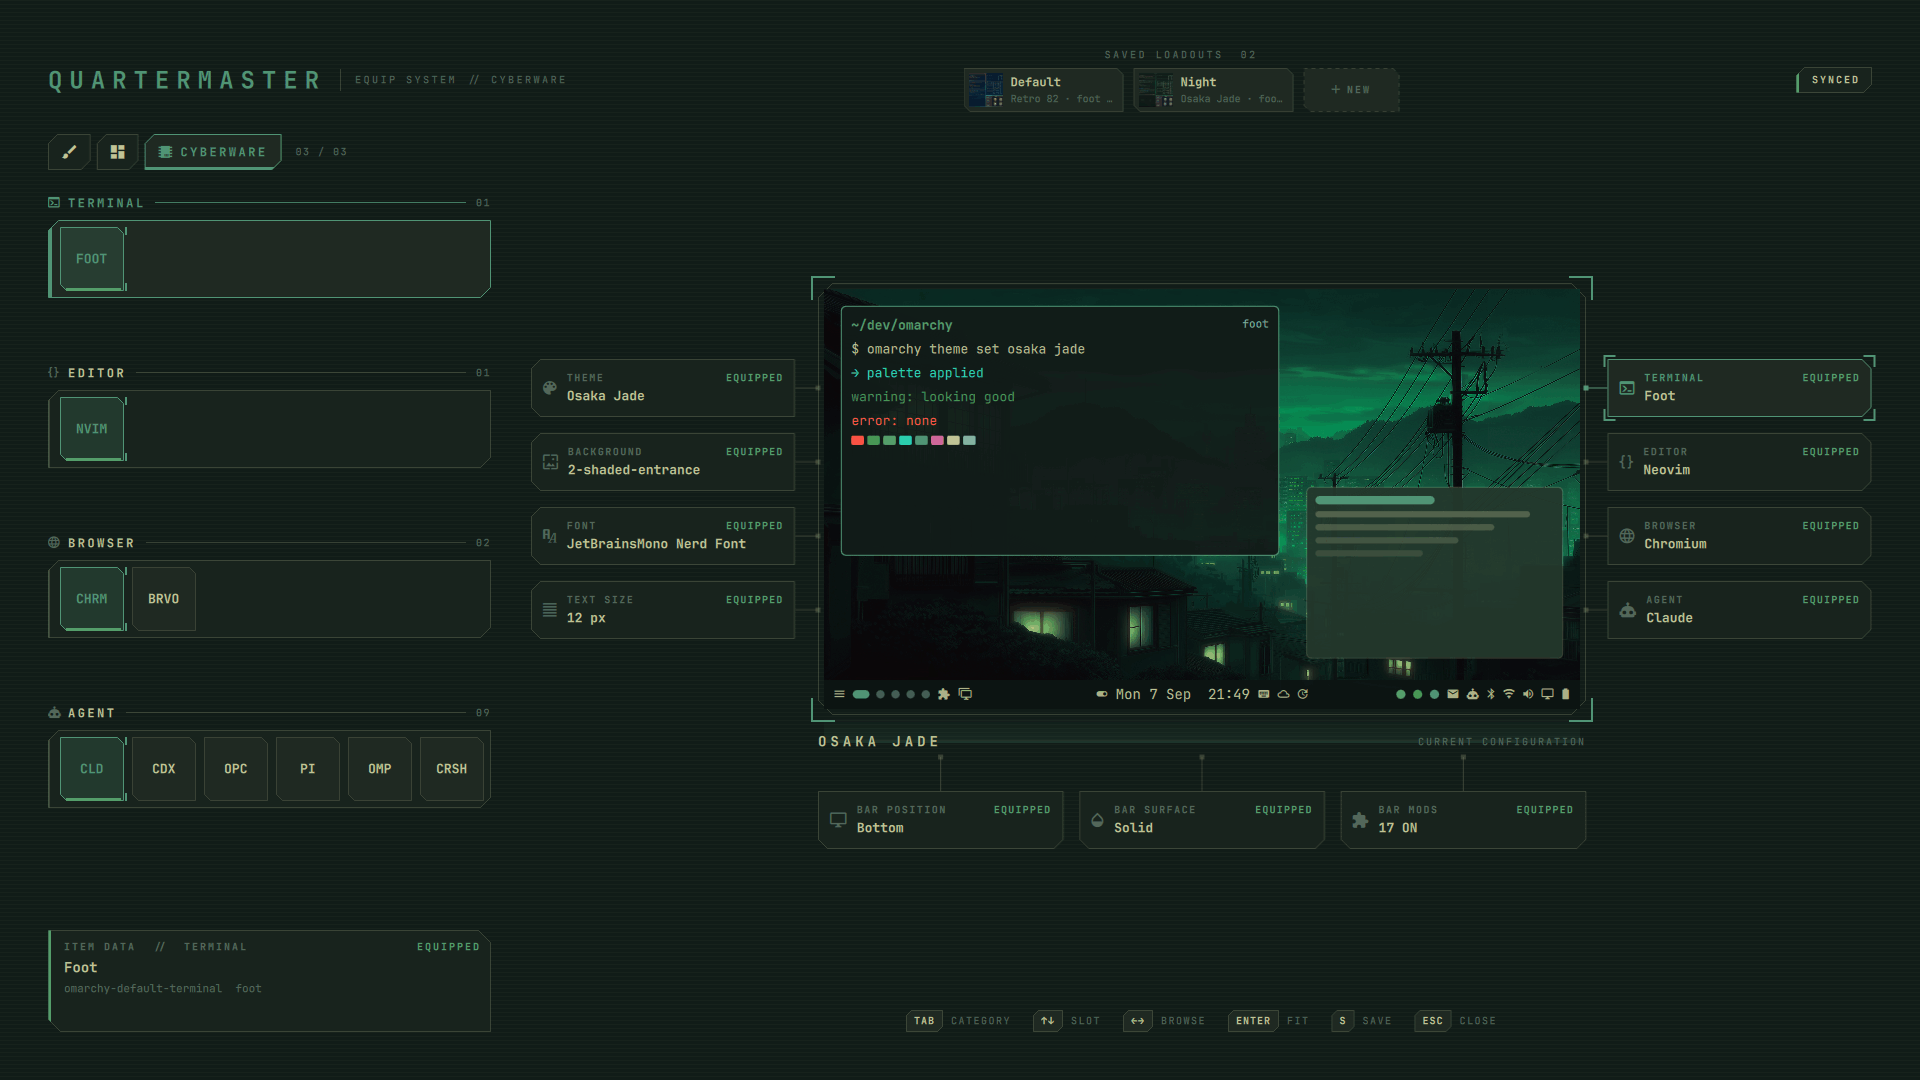
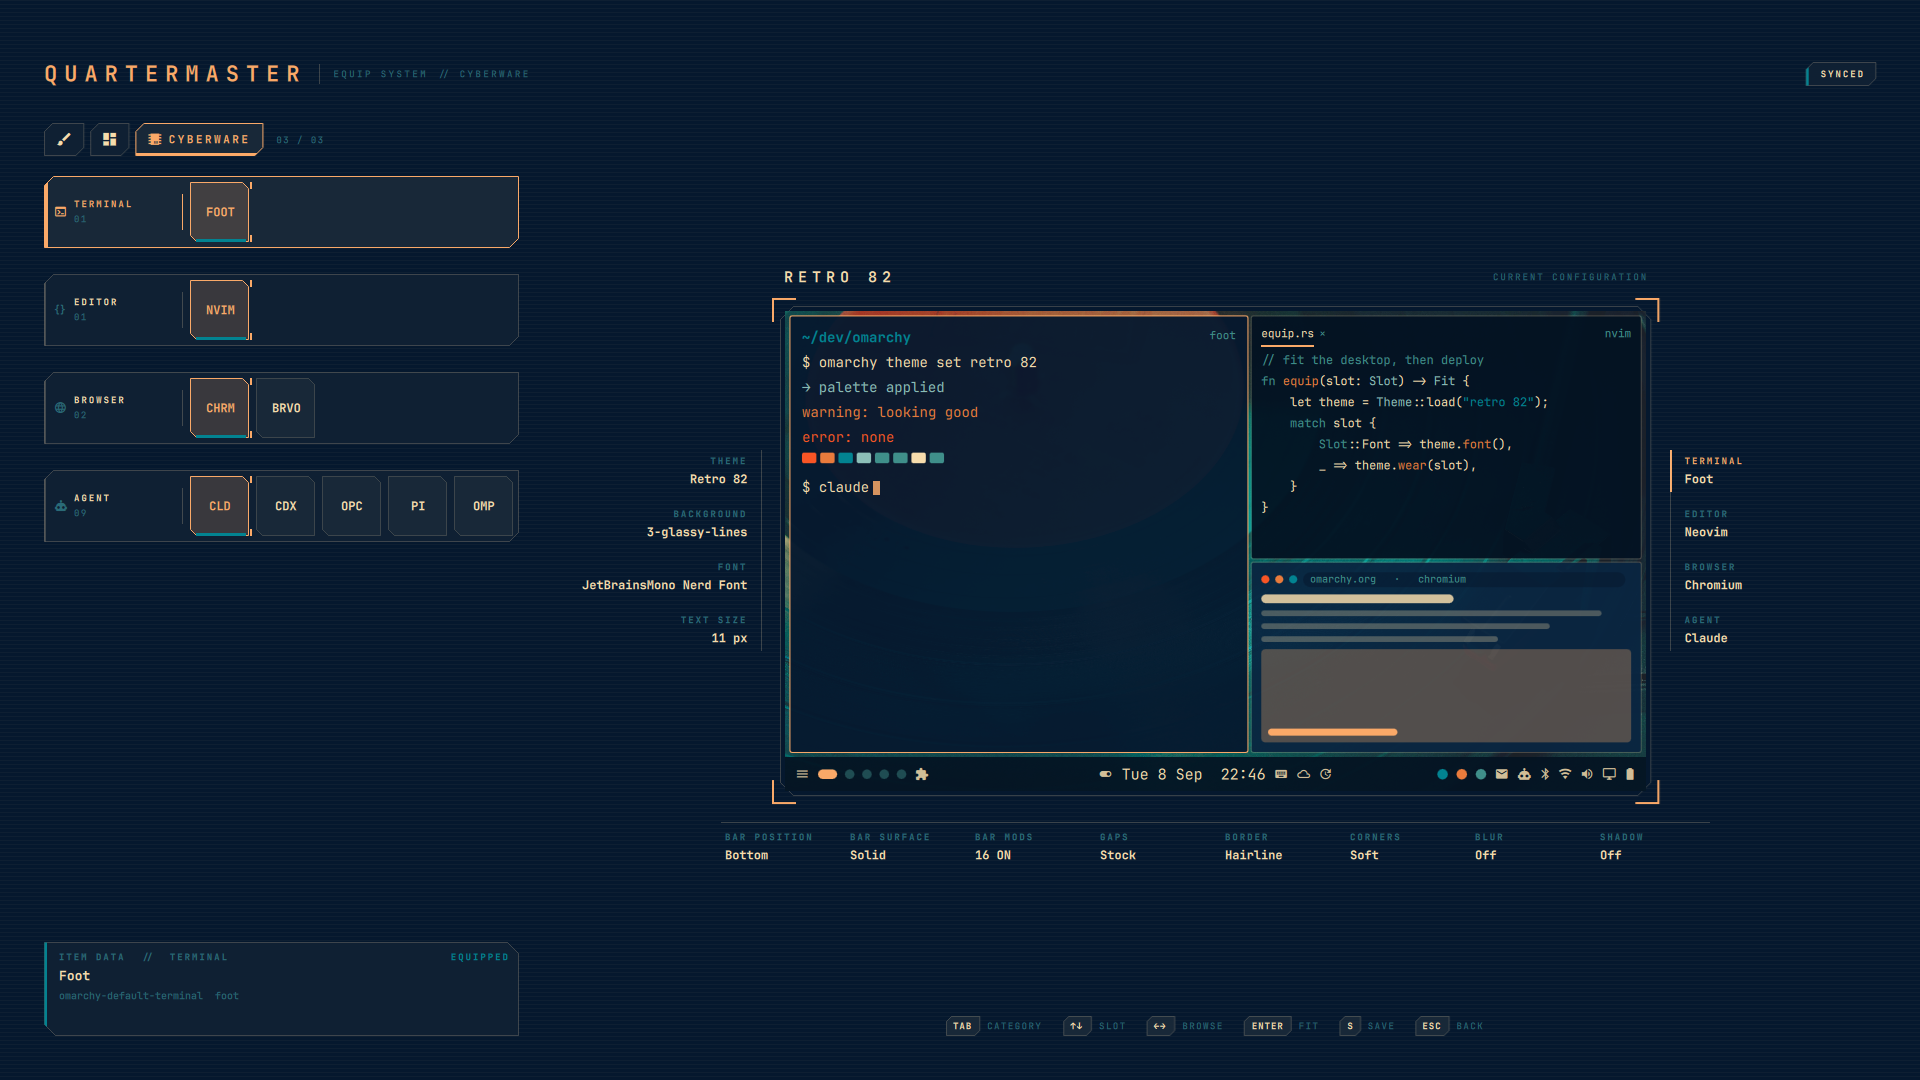
Bring the README and screenshots up to the boot screen and the look slots
The README describes the boot screen's fit, edit and deploy flow, the save
chooser, the look slots and where their one file lives and how removal
leaves it, the single-row slots, and the laptop layout as it now is. Every
screenshot is recaptured at 1920x1080 on Retro 82, and the boot screen gets
one of its own.

Claude-Session: https://claude.ai/code/session_014SGNxZtUUfgMUgS5SwcT99

diff --git a/README.md b/README.md
@@ -1,9 +1,10 @@
 # Quartermaster
 
-An RPG equip screen for Omarchy. Slot in themes, backgrounds, fonts and
-defaults, watch a miniature desktop re-fit itself as you browse, fit what you
-like, then deploy the whole fitting for real. Save a fitting as a loadout and
-swap between them in one move.
+An RPG equip screen for Omarchy. Slot in themes, backgrounds, fonts, default
+apps, the bar and Hyprland's own look — gaps, borders, corners, blur, shadow —
+watch a miniature desktop re-fit itself as you browse, fit what you like, then
+deploy the whole fitting for real. Save a fitting as a loadout and swap
+between them in one move.
 
 ![The Quartermaster equip screen, with the Style category open](preview.png)
 
@@ -54,7 +55,9 @@ the ordinary Omarchy commands, the same ones the Omarchy menu runs:
 `omarchy plugin enable` / `disable`, `omarchy bar move`, and
 `omarchy-default-terminal` / `-editor` / `-browser`. Each is handed its
 arguments as a list rather than a shell string, and every value in that list is
-an id the inventory itself produced.
+an id the inventory itself produced. The five Hyprland look slots run the
+plugin's own `look-set.sh`, described under Hyprland look below; it writes one
+file under `~/.local/state` and runs `hyprctl reload`.
 
 Opening the screen only reads: those same commands with no argument, plus
 `omarchy-plugin-catalog`, `~/.config/omarchy/shell.json`, the two theme
@@ -63,11 +66,13 @@ ships an `omarchy-installed-service-*` check, that runs too, under a two second
 timeout — which is what keeps a widget with nothing behind it out of the
 catalogue.
 
-Quartermaster writes in three places of its own: saved loadouts under
-`~/.local/share/omarchy/loadouts/`, a log and the last deploy's result under
-`~/.local/state/omarchy/loadout/`, and the default agent in
-`~/.config/omarchy/defaults/agent`, written directly for the reason given
-under Categories and slots.
+Quartermaster writes in four places of its own: saved loadouts under
+`~/.local/share/omarchy/loadouts/`, a log, the last deploy's result and the
+chosen look presets under `~/.local/state/omarchy/loadout/`, the rendered look
+file `~/.local/state/omarchy/toggles/hypr/quartermaster-look.lua`, and the
+default agent in `~/.config/omarchy/defaults/agent`, written directly for the
+reason given under Categories and slots. Nothing under `~/.config/hypr` is
+ever touched.
 
 None of this asks for root: no sudo or pkexec is used anywhere in the plugin,
 and Omarchy's installer never runs plugin code. What is true of every
@@ -95,7 +100,15 @@ Two directories are yours rather than the plugin's, so they are left where
 they are and a reinstall finds your loadouts again:
 
 - `~/.local/share/omarchy/loadouts/` — one JSON file per saved loadout
-- `~/.local/state/omarchy/loadout/` — the deploy log and the last result
+- `~/.local/state/omarchy/loadout/` — the deploy log, the last result and the
+  chosen look presets
+
+One file keeps working after removal, on purpose: a deployed Hyprland look
+lives in `~/.local/state/omarchy/toggles/hypr/quartermaster-look.lua`, which
+Omarchy loads on its own, so the gaps or corners you deployed stay exactly as
+deployed, the way a theme you deployed does. Fit every look slot back to stock
+before removing, or delete that one file afterwards, and Hyprland is back to
+your `looknfeel.lua` alone.
 
 Delete those by hand if you want them gone, and take the binding and the menu
 row back out of your own config.
@@ -105,10 +118,11 @@ row back out of your own config.
 - Summon it with the command above, or with whichever of the binding and the
   menu row you set up
 - It opens on the boot screen: the character on a card to the left, the
-  saved loadouts as a grid to the right. `← → ↑ ↓` move between them;
-  `ENTER` on the card continues to the equip screen, `ENTER` on a loadout
-  fits every slot it recorded and continues wearing it, and `X` (or the
-  cross on a card) deletes one, after asking
+  saved loadouts as a grid to the right. `← → ↑ ↓` move between them.
+  `ENTER` on the card continues to the equip screen. On a loadout, `ENTER`
+  fits every slot it recorded and stays, so `D` deploys it from right there;
+  `E` (or EDIT on the tile) fits it and continues to the equip screen to
+  change it; `X` (or the cross) deletes it, after asking
 - `TAB` / `SHIFT+TAB` (or `1` `2` `3`) switch equipment category
 - `↑ ↓` move between slots, `← →` browse that slot's inventory
 - BAR MODS has no inventory to browse: `← →` do nothing there and `ENTER`
@@ -118,7 +132,11 @@ row back out of your own config.
   screen; clicking the pill in the top corner does the same
 - `ESC` steps back from the equip screen to the boot screen and closes from
   there; if anything is fitted but not deployed it asks first
-- `S` saves the fitting on screen as a loadout
+- `S` saves the fitting on screen as a loadout: a chooser offers the saved
+  loadouts to save over, with the one the fitting came from first, and NEW
+  at its head for a fresh name. Nothing is saved under a new name unasked
+
+![The boot screen: the character card on the left, the saved loadouts as a grid on the right](screenshots/boot.png)
 
 The screen opens on Hyprland's focused monitor. A summon payload can name an
 output instead, which is handy for scripting and screenshots:
@@ -155,6 +173,11 @@ the top of the left column. The active pill spells out its name.
 | **Shell** | Bar position | top / bottom / left / right | `omarchy-bar position` |
 | | Bar surface | solid / transparent | `omarchy-bar transparent` |
 | | Bar mods | every usable `bar-widget` plugin in the catalogue | `omarchy plugin enable` / `disable`, `omarchy bar move` |
+| | Gaps | tight / stock / airy / loose | `look-set.sh gaps` |
+| | Border | none / hairline / stock / heavy | `look-set.sh border` |
+| | Corners | square / soft / round / pill | `look-set.sh corners` |
+| | Blur | off / light / heavy | `look-set.sh blur` |
+| | Shadow | off / on | `look-set.sh shadow` |
 | **Cyberware** | Terminal | installed alacritty / foot / ghostty / kitty | `omarchy-default-terminal` |
 | | Editor | installed editors `omarchy default editor` knows | `omarchy-default-editor` |
 | | Browser | installed browsers `omarchy default browser` knows | `omarchy-default-browser` |
@@ -162,22 +185,49 @@ the top of the left column. The active pill spells out its name.
 
 Style is what the desktop wears — its palette, its wallpaper and its type,
 face and size together — Shell is the frame it hangs on, and Cyberware is the
-tooling wired into it. Style and Shell both show on the mini desktop: it
-repaints, scales its type, moves its bar, drops the bar fill, and mirrors the
-bar's widget layout — the type, the bar and its layout as you browse, the
-palette and the wallpaper once you fit them.
+tooling wired into it. All three show on the mini desktop: it repaints, scales
+its type, moves its bar, drops the bar fill, mirrors the bar's widget layout,
+spaces and rounds and borders its windows the way Hyprland would, and names
+the fitted terminal, editor, browser and agent in its windows — everything as
+you browse, except the palette and the wallpaper, which follow once you fit
+them.
+
+### Hyprland look
+
+Gaps, border, corners, blur and shadow are Hyprland settings, and Omarchy has
+no command that sets them, so these five slots come with their own apply
+script. Every value they can set lives in `look-presets.json`; the slot and
+the preset are looked up there and rejected if absent, and nothing else is
+ever written. Deploying one records the choice in
+`~/.local/state/omarchy/loadout/look.json` and renders the whole record as one
+`hl.config` call into `~/.local/state/omarchy/toggles/hypr/quartermaster-look.lua`,
+which Omarchy itself loads after your `~/.config/hypr/looknfeel.lua` (that
+directory is Omarchy's own drop-in for permanent flags). Then `hyprctl reload`,
+then `hyprctl configerrors`: an error that was not there before the write
+means the file is withdrawn, the previous one restored and Hyprland reloaded
+again, so a bad render cannot leave the desktop in a broken state.
+
+A slot fitted with its stock preset is left out of the file, so your own
+looknfeel.lua keeps the last word there, and fitting every look slot back to
+stock removes the file. Delete that one file and Hyprland is back to your
+config alone. The slots read what Hyprland is actually running over
+`hyprctl getoption`; when it matches no preset, a Custom item shows the live
+values as equipped rather than mislabelling them as the nearest preset. Blur
+only shows on windows that let something through, which stock Omarchy
+windows barely do.
 
 ![Style: theme, background, font and text size, with the fitted theme's palette under the cursor](screenshots/style.png)
 
-![Shell: bar position and surface, and the bar mods slot with its workbench button](screenshots/shell.png)
+![Shell: bar position, surface and mods, then Hyprland's gaps, border, corners, blur and shadow as preset rows](screenshots/shell.png)
 
 ![Cyberware: terminal, editor, browser and coding agent, each showing what is installed](screenshots/cyberware.png)
 
 ### Deploying
 
-`D` hands the fitting to `deploy.sh`, which runs one Omarchy command per
-fitted slot, in a fixed order: theme first (the background depends on it),
-then the bar and text size, then the default apps, and the font last. The
+`D` hands the fitting to `deploy.sh`, which runs one command per fitted
+slot, in a fixed order: theme first (the background depends on it), then the
+Hyprland look, the bar and text size, then the default apps, and the font
+last. The
 font goes last because `omarchy-font-set` restarts the shell, and Quartermaster
 lives inside the shell: anything still queued there would die with it. For
 the same reason the runner is detached from the shell (`setsid -f`), and
@@ -198,8 +248,8 @@ the item data panel describes the slot rather than a widget: how the fitting
 is spread across the bar and the bench.
 
 `ENTER` on the slot, or a click on the button, opens the **workbench**, which
-takes the whole screen: bar mods edits the whole bar, so the slot column, the
-character and the saved-loadouts row stand down while it is open. It is laid
+takes the whole screen: bar mods edits the whole bar, so the slot column and
+the character stand down while it is open. It is laid
 out in the shape of the thing it edits. Across the top is the **rail** — the
 fitting drawn as a bar, in the previewed theme, tagged with the edge the bar
 is really on and whether it is solid; a clear bar lets the previewed wallpaper
@@ -265,7 +315,7 @@ in a terminal, which is not what "apply" should do from an equip screen.
 Adding a slot means adding one entry to `slotDefs` in `Loadout.qml` (with its
 category, glyph and apply-command prefix) and a matching branch in
 `itemsFor()`. The fitted item id is appended to the prefix as the final
-argument. New slots appear in the character view's callouts automatically.
+argument. New slots appear in the character view's tags automatically.
 
 ## Loadouts
 
@@ -275,38 +325,46 @@ it. A loadout records the fitting as shown on
 screen as a map of slot id to item id in
 `~/.local/share/omarchy/loadouts/<id>.json`. Taking a card, with `ENTER` or
 a click, fits every slot it recorded that differs from what is live and
-continues to the equip screen wearing it, so the character shows the whole
-fitting — theme, wallpaper, font, type size and bar — and `D` deploys. The
-card whose fitting the desktop is actually wearing is ringed. The nameplate
-under the character, like the boot screen's card, names the loadout the
-fitting currently represents; a hand-picked change clears that until you
-save again.
+stays on the boot screen: the character card reads FITTED, and `D` deploys
+the whole fitting — theme, wallpaper, font, type size, bar and look — from
+there. `E`, or EDIT on the tile, fits it and continues to the equip screen
+instead, to change it; saving then offers that loadout first, so an edit
+goes back where it came from with `S` and `ENTER`, and a new loadout is only
+ever written when you pick NEW and give it a name. The card whose fitting
+the desktop is actually wearing is ringed. The nameplate above the
+character, like the boot screen's card, names the loadout the fitting
+currently represents; a hand-picked change clears that until you save
+again.
 
 ## How it works
 
 `scan.sh` emits the whole inventory as one JSON document: themes with their
 parsed `colors.toml` palettes, preview images and wallpapers, the installed
-tools each default slot can take, the shell options, and the saved loadouts
-from `loadouts.sh list`.
+tools each default slot can take, the shell options, the look presets marked
+against what Hyprland reports over `hyprctl getoption`, and the saved
+loadouts from `loadouts.sh list`.
 
 The centre of the character view is a *mock* desktop, not a screen capture. A
 capture can only show what is already applied, and this overlay covers the
 screen anyway. Mocking it is what makes previewing an unapplied fitting
-possible: it moves its bar, drops the bar fill, scales its type and repaints
-in the previewed palette. Around it, one callout per slot names what is worn,
-previewed or fitted, tethered by a leader line that turns accent under the cursor and the
-warning colour when fitted.
+possible: it tiles three windows the way Hyprland's dwindle layout would,
+spaced, bordered and rounded by the fitted look, moves its bar, drops the bar
+fill, scales its type and repaints in the previewed palette. Around it, one
+tag per slot names what is worn, and says PREVIEW or FITTED when that is the
+case; equipped is the quiet default. The tags hang off one hairline rail per
+column, nothing is drawn between a tag and the desktop, and the tag the
+cursor is on turns its stretch of rail to the accent: the desktop itself is
+what shows the change.
 
 Every frame is a `TechFrame`: a chamfered outline with an optional heavy edge
 and corner brackets, drawn on a Canvas so it recolours with the theme.
 
-The callouts flank the viewport on every screen that can hold them. Whether a
-screen can is worked out rather than assumed: flanking costs the viewport's
-share of the width plus, on each side, a gutter and a card at its floor, so a
-1280-wide laptop panel flanks and a roomier spacing scale falls back on its own
-to a stack, a three-column grid under the viewport with each card tethered to
-the one above it. A card narrower than about 170 px drops the tag word for a
-small state square.
+The tags flank the viewport on every screen that can hold them, and the
+viewport is what gives way: flanking costs, on each side, a gutter and a tag
+at its floor, and the viewport takes what is left, so a 1280-wide laptop
+panel still shows the character surrounded by its tags, only smaller. Only a
+pane too narrow to leave a viewport worth the name falls back to a stack, a
+grid of up to five columns under the viewport.
 
 The layout is built to take more slots than it has. Style keeps the left,
 Cyberware the right and Shell the foot, because that grouping is the point, but
@@ -317,11 +375,12 @@ wider than the viewport's channel it starts below the side columns rather than
 beside them. The whole arrangement is centred on the union of the stack and the
 columns, so a tall column pushes it down instead of off the top.
 
-On the left, the item data panel is the first thing to go when the column is
-short: every slot shows before any description does. The inventory cells then
-shrink until the tallest category fits its column together with the item data
-panel, so no screen has to scroll a slot list; scrolling remains only as a
-last resort.
+On the left, every slot is one row, its name and count in a block before its
+cells, so a category of eight costs no more height than its cells. The item
+data panel is the first thing to go when the column is short: every slot
+shows before any description does. The cells then shrink until the tallest
+category fits its column together with the item data panel, so no screen has
+to scroll a slot list; scrolling remains only as a last resort.
 
 ## Notes
 
@@ -344,30 +403,33 @@ well as dark ones.
 manifest.json      overlay plugin declaration
 Loadout.qml        overlay entry: categories, slots, staging, loadouts, apply queue
 BarLayout.js       the bar layout: its string form, the workbench's edits, the commands
-CharacterView.qml  the character: viewport, callouts, leader lines, nameplate
+CharacterView.qml  the character: viewport, tags on their rails, nameplate
 BootScreen.qml     the boot screen: the character card and the loadout grid
 LoadoutGrid.qml    the saved loadouts as a grid, three to a row
 BarWorkbench.qml   the workbench: the bar as a rail, its sections as bins, an inventory
 BarRail.qml        a bar's widget tokens, drawn for the mock desktop and the rail
 MiniDesktop.qml    the miniature mock desktop
-SlotPanel.qml      one equipment slot + its inventory row, or its workbench button
+SlotPanel.qml      one equipment slot as a row: name block and inventory cells, or the workbench button
 ItemData.qml       description panel for whatever the cursor is on
 TechFrame.qml      chamfered frame with heavy edge and corner brackets
 scan.sh            inventory as JSON (widgets and bar layout included)
-loadouts.sh        list / save / delete saved loadouts
+loadouts.sh        list / save (new, or over an existing id) / delete saved loadouts
 deploy.sh          runs a fitting's commands detached from the shell and reports back
 agent-set.sh       records the default agent without launching it
+look-set.sh        renders the chosen look presets into Omarchy's toggles drop-in and reloads Hyprland
+look-presets.json  every value the look slots can set
 preview.png        the marketplace card: the screen on a 1920x1080 monitor
-screenshots/       the three categories and the workbench, for this README
+screenshots/       the boot screen, the three categories and the workbench, for this README
 LICENSE            MIT
 tests/run.sh       every test below, in order
-tests/*-test.sh    manifest, qmllint, the bar layout model, and the four scripts
+tests/*-test.sh    manifest, qmllint, the bar layout model, and the five scripts
 ```
 
 `tests/run.sh` needs nothing installed and changes nothing: every test that
 runs a script builds a home and an Omarchy of its own under `mktemp -d`, and
-the two scripts that run commands are pointed at stubs that record what they
-were called with. The bar layout model needs none of that, being plain
+the scripts that run commands are pointed at stubs that record what they were
+called with; the look test's stubbed `hyprctl` can also be told to report a
+config error, to prove the write backs out. The bar layout model needs none of that, being plain
 JavaScript that touches nothing, and its suite is skipped where node is
 missing. The deploy test refuses outright to run a plan naming an absolute
 path outside its stub directory, because a plan is executed as written and one
